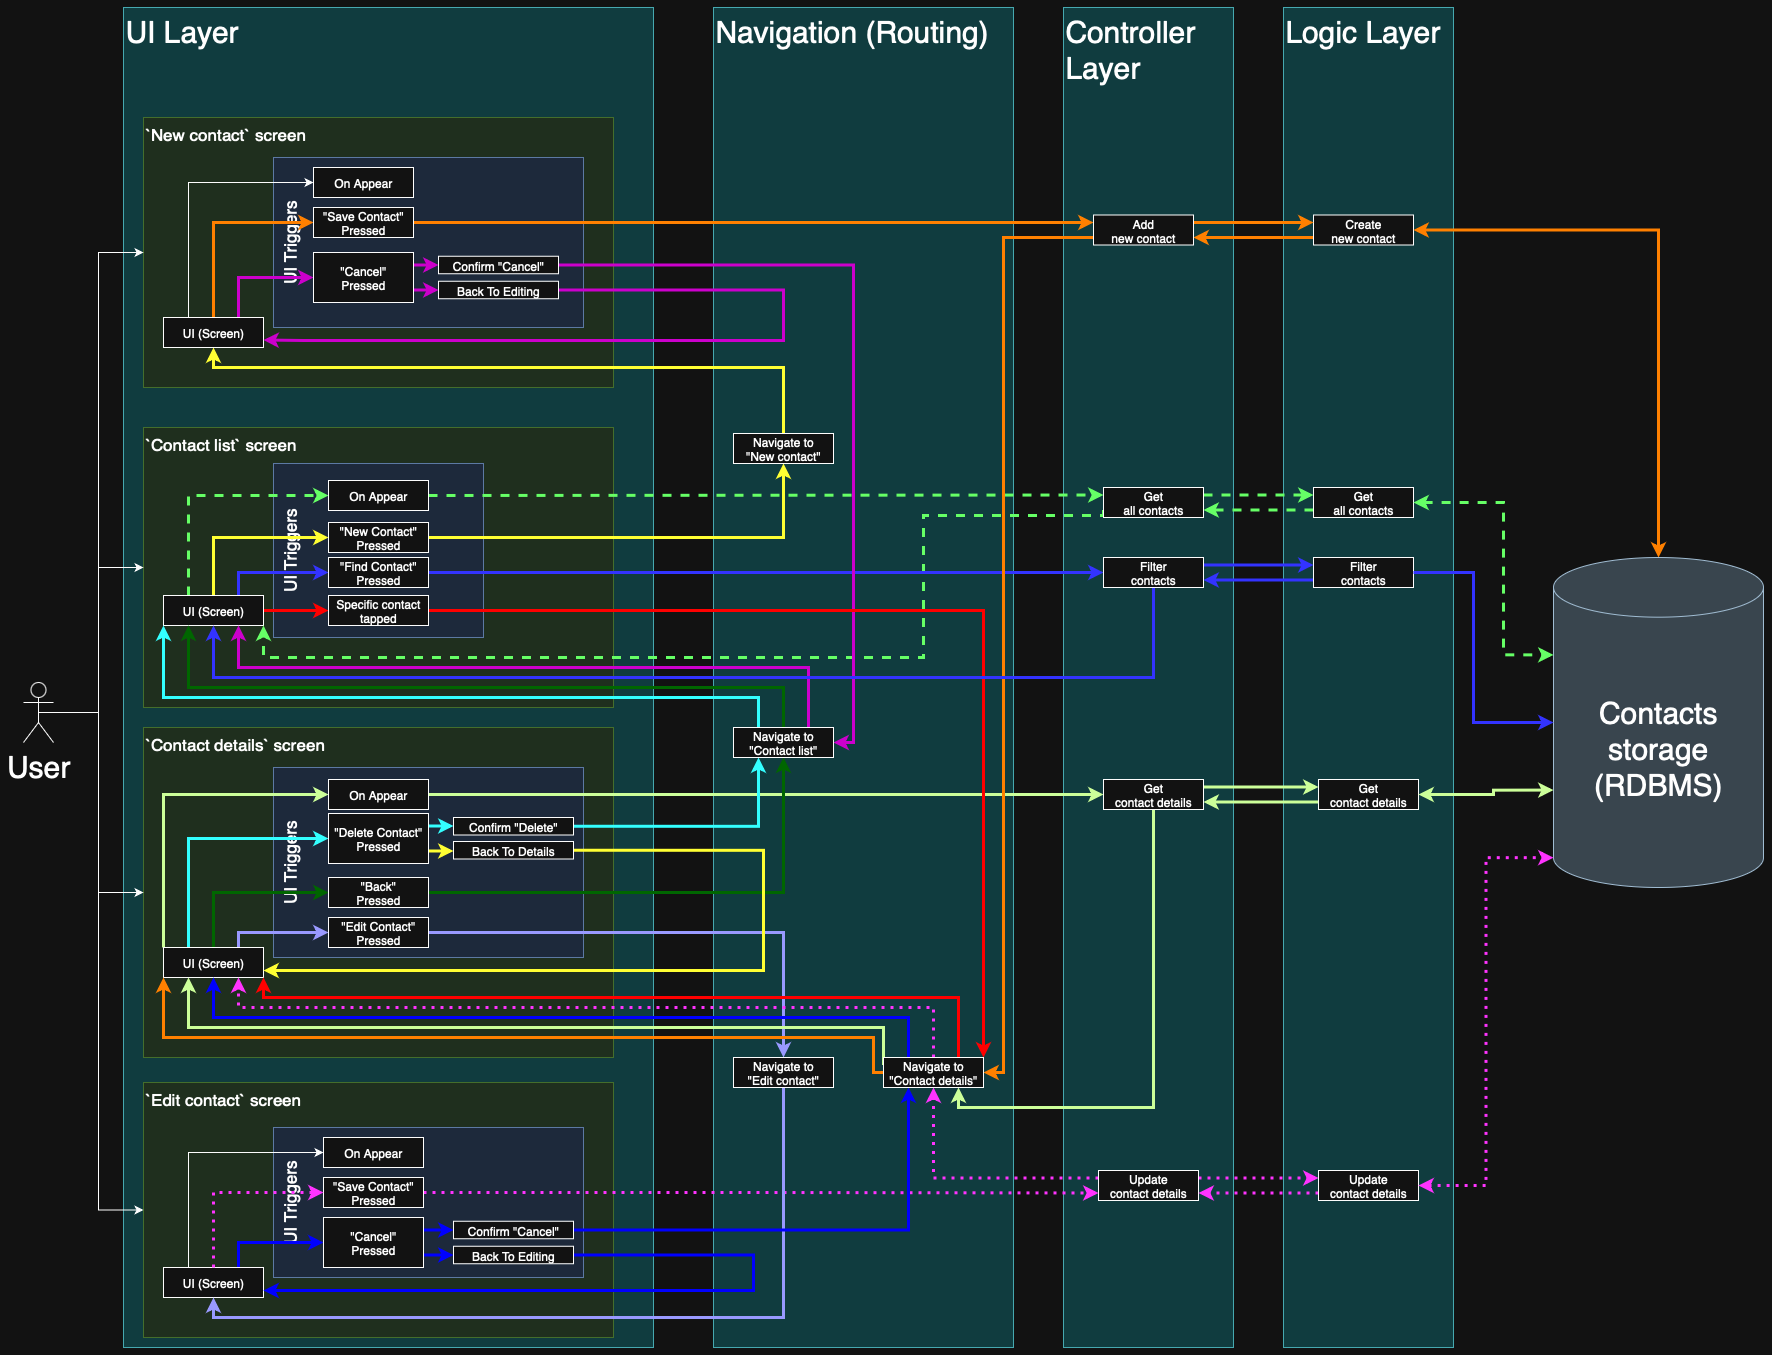
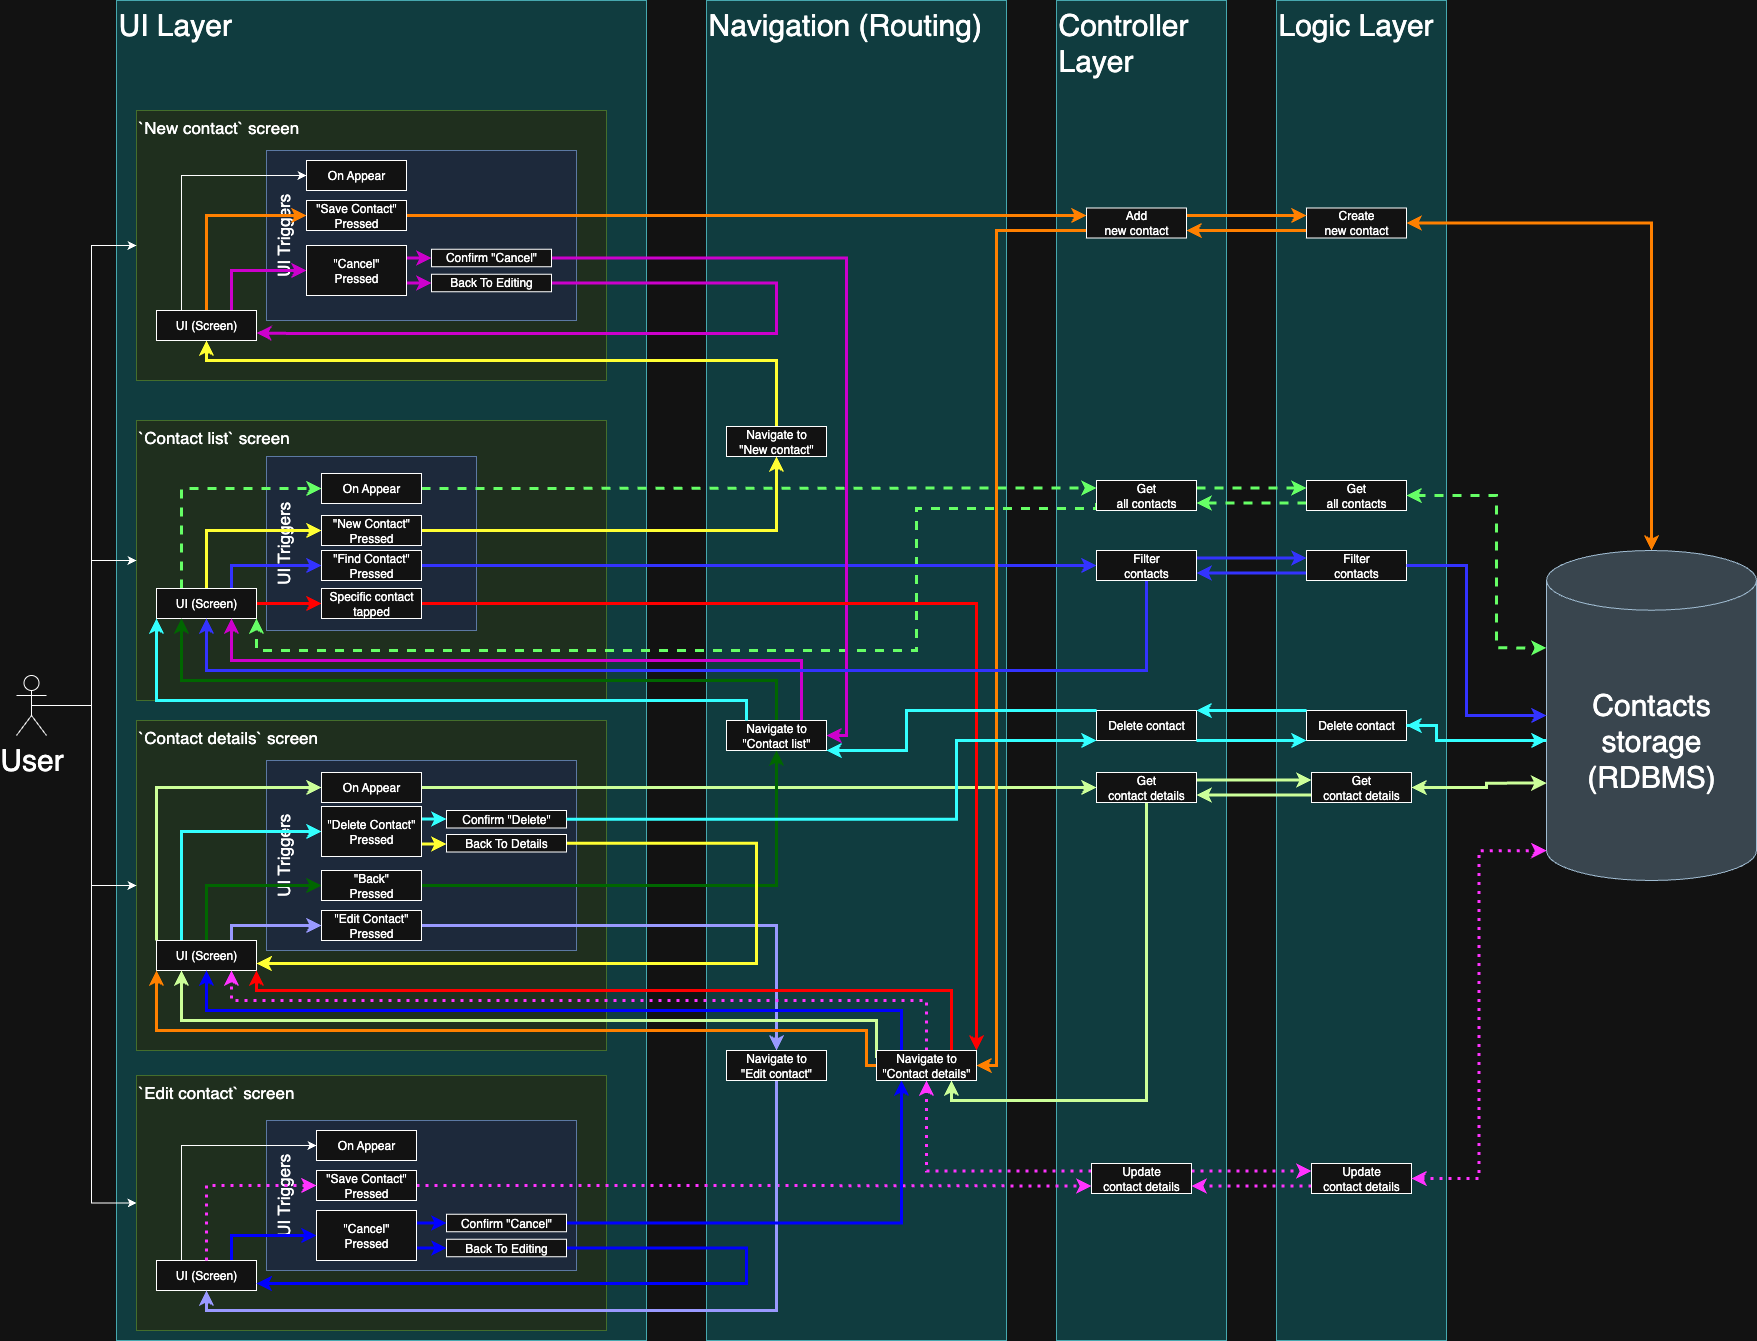
The architecture diagram has been changed: deletion logic has been added. Punctuation and grammatical corrections have been made to the documentation.

Changed region(s): [[0.0, 0.0, 1.0, 1.0]]

diff --git a/docs/ARCHITECTURE.md b/docs/ARCHITECTURE.md
@@ -1,6 +1,6 @@
 # Project Architecture
 
-The document describes an architecture of the project and high-level details about how the main app works.
+The document describes an architecture of the project and high-level details about how the app works.
 
 
 ## Overview
@@ -32,51 +32,51 @@ The subsection describes the relations between UI views (screens) and their depe
 Given the navigation flow you have to understand what screen can open another one.
 
 - Upon opening, the app shows the “Contact List” screen.
-- Description of the navigation flow for the use case: a user can open the app and see the list of stored contacts (follow dashed light green arrows on scheme).
+- Description of the navigation flow for the use case: a user can open the app and see the list of stored contacts (follow dashed light green arrows on scheme):
     - pre-requisites: App is launched.
     - action (trigger): The application finishes loading.
     - result: The `"Contact List"` screen is displayed.
-- Description of the navigation flow for the use case: a user can close the app
+- Description of the navigation flow for the use case: a user can close the app:
     - pre-requisites: The app is open.
     - action (trigger): User performs a system action to close the app (e.g., swipes it away from the recent apps list).
     - result: The application process is terminated.
-- Description of the navigation flow for the use case: a user can open a screen where they can edit information about a specific contact (follow light purple arrows on scheme)
+- Description of the navigation flow for the use case: a user can open a screen where they can edit information about a specific contact (follow light purple arrows on scheme):
     - pre-requisites: User is on the `"Contact details"` screen.
     - action (trigger): Press the `"Edit Contact"` button.
     - result: Navigate to the `"Edit contact"` screen, which shows a form pre-filled with the current contact's data.
-- Description of the navigation flow for the use case: while looking at contact details, a user can go back to the full list of contacts (follow green arrows on scheme)
+- Description of the navigation flow for the use case: while looking at contact details, a user can go back to the full list of contacts (follow green arrows on scheme):
     - pre-requisites: User is on the `"Contact details"` screen.
     - action (trigger): Press the `"Back"` button.
     - result: Navigate to the `"Contact List"` screen.
-- Description of the navigation flow for the use case: a user can open a screen where they can add info about a new contact (follow yellow arrows on scheme)
+- Description of the navigation flow for the use case: a user can open a screen where they can add info about a new contact (follow yellow arrows on scheme):
     - pre-requisites: navigate to `"Contact List"` screen.
     - action (trigger): press the `"Create New Contact"` button.
     - result: navigate to the `"New Contact"` screen and show the screen with empty UI fields.
-- Description of the navigation flow for the use case: a user can cancel the process of creating of a new contact (follow purple arrows on scheme)
+- Description of the navigation flow for the use case: a user can cancel the process of creating of a new contact (follow purple arrows on scheme):
     - pre-requisites: User is on the `"New contact"` screen.
     - action (trigger): Press the `"Cancel"` button and confirm the cancellation.
     - result: Navigate back to the `"Contact List"` screen.
-- Description of the navigation flow for the use case: after the successful creation of a new contact, a user can see the details about the contact (follow orange arrows on scheme)
+- Description of the navigation flow for the use case: after the successful creation of a new contact, a user can see the details about the contact (follow orange arrows on scheme):
     - pre-requisites: User is on the `"New contact"` screen and has filled in the required fields.
     - action (trigger): Press the `"Save Contact"` button.
     - result: After the data is saved, navigate to the `"Contact details"` screen to show the information for the newly created contact.
-- Description of the navigation flow for the use case: a user can open a screen to see a details about the specific contact (follow red arrows on scheme)
+- Description of the navigation flow for the use case: a user can open a screen to see a details about the specific contact (follow red arrows on scheme):
     - pre-requisites: User is on the `"Contact List"` screen.
     - action (trigger): Tap on a specific contact in the list.
     - result: Navigate to the `"Contact details"` screen to show all stored information for the selected contact.
-- Description of the navigation flow for the use case: after the successful removing of existing contact, a user can see the full list of stored contacts [without the contact that was deleted] (follow light blue arrows on scheme)
+- Description of the navigation flow for the use case: after the successful removing of existing contact, a user can see the full list of stored contacts [without the contact that was deleted] (follow light blue arrows on scheme):
     - pre-requisites: User is on the `"Contact details"` screen.
     - action (trigger): Press the `"Delete Contact"` button and confirm the deletion.
     - result: Navigate to the `"Contact List"` screen. The list is updated and no longer shows the deleted contact.
-- Description of the navigation flow for the use case: a user can cancel a process of a deletion of the existing contact and open the contact details (follow yellow arrows on scheme)
+- Description of the navigation flow for the use case: a user can cancel a process of a deletion of the existing contact and open the contact details (follow yellow arrows on scheme):
     - pre-requisites: User has pressed the `"Delete Contact"` button on the `"Contact details"` screen and a confirmation dialog is shown.
     - action (trigger): Press the button to cancel the deletion (e.g., `"Cancel"` or `"No"`).
     - result: The confirmation dialog is dismissed, and the user remains on the `"Contact details"` screen.
-- Description of the navigation flow for the use case: a user can update an existing contact and open the contact details with the updated info (follow dashed magenta arrows on scheme)
+- Description of the navigation flow for the use case: a user can update an existing contact and open the contact details with the updated info (follow dashed magenta arrows on scheme):
     - pre-requisites: User is on the `"Edit contact"` screen and has changed some information.
     - action (trigger): Press the `"Save Contact"` button.
     - result: After the data is saved, navigate to the `"Contact details"` screen to show the updated information for the contact.
-- Description of the navigation flow for the use case: a user can cancel the process of updating of an existing contact (follow dark blue arrows on scheme)
+- Description of the navigation flow for the use case: a user can cancel the process of updating of an existing contact (follow dark blue arrows on scheme):
     - pre-requisites: User is on the `"Edit contact"` screen.
     - action (trigger): Press the `"Cancel"` button and confirm the cancellation.
     - result: Navigate back to the `"Contact details"` screen without saving any changes.
@@ -90,6 +90,7 @@ To pass the data within the app, the following models should be used:
 ContactFullDetails struct:
 
 - id (UUID string or unique integer)
+- id_contact (UUID unique integer)
 - name (String)
 - phone (String)
 - additional\_contact ([String])
@@ -107,7 +108,7 @@ ContactShortDescription struct:
 ```
 
 
--   Description of the data flow for the use case: a user can see all stored contacts (follow dashed light green arrows on scheme)
+-   Description of the data flow for the use case: a user can see all stored contacts (follow dashed light green arrows on scheme):
     -   pre-requisites: navigate to “Contact List” screen
     -   action (trigger): the "Contact List" appears on the screen.
     -   result:
@@ -117,7 +118,7 @@ ContactShortDescription struct:
             -   perform `SELECT` operation over the DB;
             -   extract all rows with the fields: id, name to form `ContactShortDescription` struct later;
             -   sort results alphabetically by the `name` field;
--   Description of the data flow for the use case: a user can fill the info about a new contact and store it (follow orange arrows on scheme)
+-   Description of the data flow for the use case: a user can fill the info about a new contact and store it (follow orange arrows on scheme):
     -   pre-requisites: User is on the "New contact" screen.
     -   action (trigger): User fills the form fields and presses the “Save Contact” button.
     -   result:
@@ -125,7 +126,7 @@ ContactShortDescription struct:
         -   Call the `AddNewContact(ContactFullDetails)` method in the controller layer.
         -   The controller layer calls the `CreateNewContact(ContactFullDetails)` method in the logic layer.
         -   The logic layer generates a unique `id`, validates the data, and performs an `INSERT` operation in the DB. It then returns the complete `ContactFullDetails` object (with the new `id`) to the controller, which passes it to the UI.
--   Description of the data flow for the use case: a user can get all the stored details about a specific contact (follow lime or light green arrows)
+-   Description of the data flow for the use case: a user can get all the stored details about a specific contact (follow lime or light green arrows):
     -   pre-requisites: User is on the "Contact List" screen.
     -   action (trigger): User taps on a specific contact from the list.
     -   result:
@@ -134,7 +135,7 @@ ContactShortDescription struct:
         -   The controller layer calls the `Get contact details(id)` method in the logic layer.
         -   The logic layer performs a `SELECT *` operation over the DB for the given `id`, populates a `ContactFullDetails` struct with the retrieved data, and returns it.
         -   The UI layer receives the `ContactFullDetails` object and displays its data on the "Contact details" screen.
--   Description of the data flow for the use case: a user can find contacts by their name (follow blue arrows)
+-   Description of the data flow for the use case: a user can find contacts by their name (follow blue arrows):
     -   pre-requisites: User is on the "Contact List" screen.
     -   action (trigger): User types a search query into the "Find Contact" field.
     -   result:
@@ -143,7 +144,7 @@ ContactShortDescription struct:
         -   The logic layer performs a `SELECT id, name` operation over the DB with a `WHERE` clause to find matches (e.g., using `LIKE '%searchQuery%'`).
         -   The results are sorted alphabetically and returned as an array of `ContactShortDescription` objects.
         -   The UI layer updates the contact list on the screen to show only the filtered results.
--   Description of the data flow for the use case: a user can edit/update info about stored contact and save the changes (follow dashed magenta line)
+-   Description of the data flow for the use case: a user can edit/update info about stored contact and save the changes (follow dashed magenta line):
     -   pre-requisites: User is on the "Edit contact" screen.
     -   action (trigger): User modifies the form fields and presses the “Save Contact” button.
     -   result:
@@ -152,7 +153,7 @@ ContactShortDescription struct:
         -   The controller layer calls the `Update contact details(ContactFullDetails)` method in the logic layer.
         -   The logic layer performs an `UPDATE` operation over the DB for the record with the matching `id`.
         -   The UI layer receives the updated `ContactFullDetails` object and displays it on the "Contact details" screen.
--   Description of the data flow for the use case: a user can remove a stored contact (follow light blue arrows)
+-   Description of the data flow for the use case: a user can remove a stored contact (follow light blue arrows):
     -   pre-requisites: User is on the "Contact details" screen.
     -   action (trigger): User presses the “Delete Contact” button and confirms the action.
     -   result:
